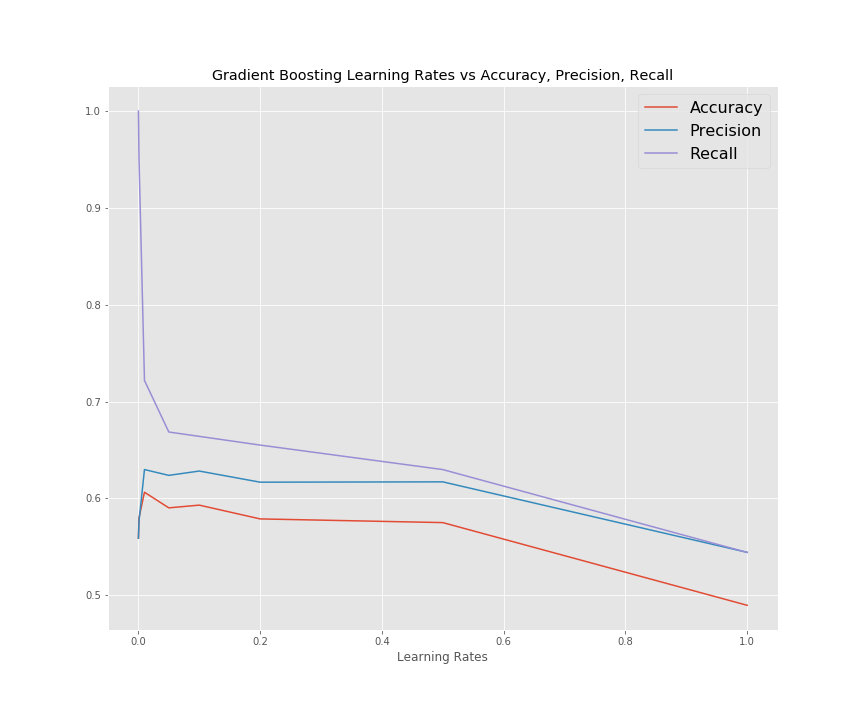
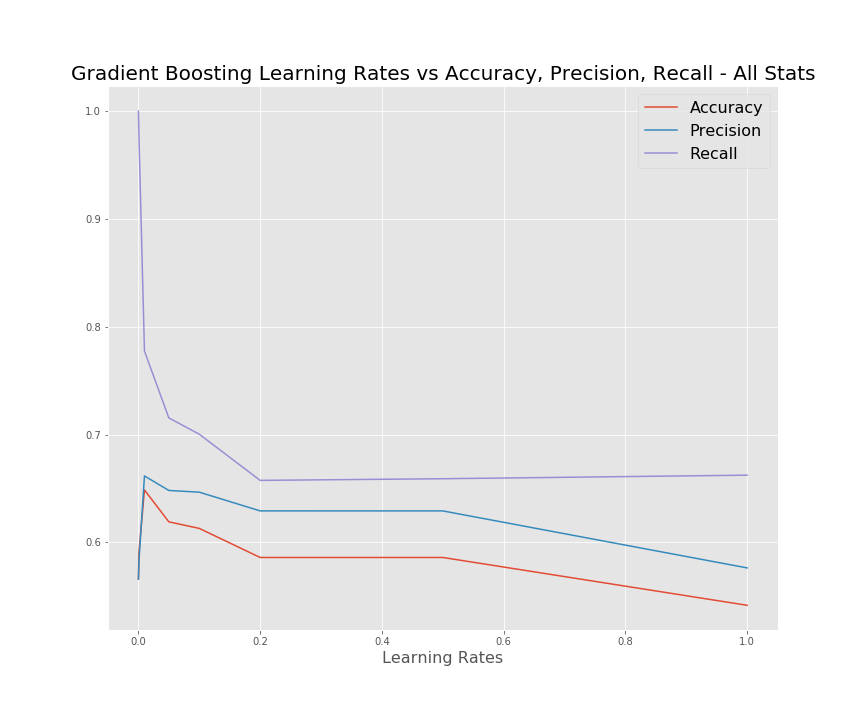
edit readme

diff --git a/README.md b/README.md
@@ -12,6 +12,8 @@
 - [Model Selection](#model-selection)
   - [Logistic Regression](#logistic-regression)
   - [Random Forest](#random-forest)
+  - [Gradient Boosting](#gradient-boosting)
+- [In Action](#in-action)
 - [Future Considerations](#future-considerations)
 - [License](#license)
 
@@ -115,5 +117,35 @@ According to the Random Forest model, the following features were most important
 
 And finally for the Random Forest model, the ROC curve and AOC score:
 
-![Random-Forest-ROC-AUC](images/rand_fore_roc_curve)
+![Random-Forest-ROC-AUC](images/rand_fore_roc_curve.png)
+
+### Gradient Boosting
+
+Similar to Random Forest, I used only the stats that I chose as important but varied learning rates for the gradient boosting model with a 5 K-Fold split.
+
+![Gradient-Boosted-K-Fold-My-Stats](images/gradient_boost_vary_learning_rate_my_stats.png)
+
+And for using all stats:
+
+![Gradient-Boosted-K-Fold-All-Stats](images/gradient_boost_vary_learning_rate_all_stats.png)
+
+According to the Gradient Boosted model, the following features were most important:
+
+| Rank         | Features                    |
+| -------------| -------------               |
+| 1            | Away_Team_Score             |
+| 2            | Home_Team_Wins_Past_Games   |
+| 3            | Home_Team_Score             |
+| 4            | Home_Team_Punt_Inside_20_Pct|
+| 5            | Home_Team_Opponent_Score    |
+| 6            | Home_Team_Sacks_Allowed     |
+| 7            | Away_Team_Sacks_Allowed     |
+| 8            | Away_Team_QB_Rating         |
+| 9            | Home_Team_Third_Down_Pct    |
+| 10           | Home_Team_Sack_Yards        |
+
+The ROC curve and AOC curve for gradient boosted:
+
+![Random-Forest-ROC-AUC](images/gradient_boost_roc_curve.png)
+
 
